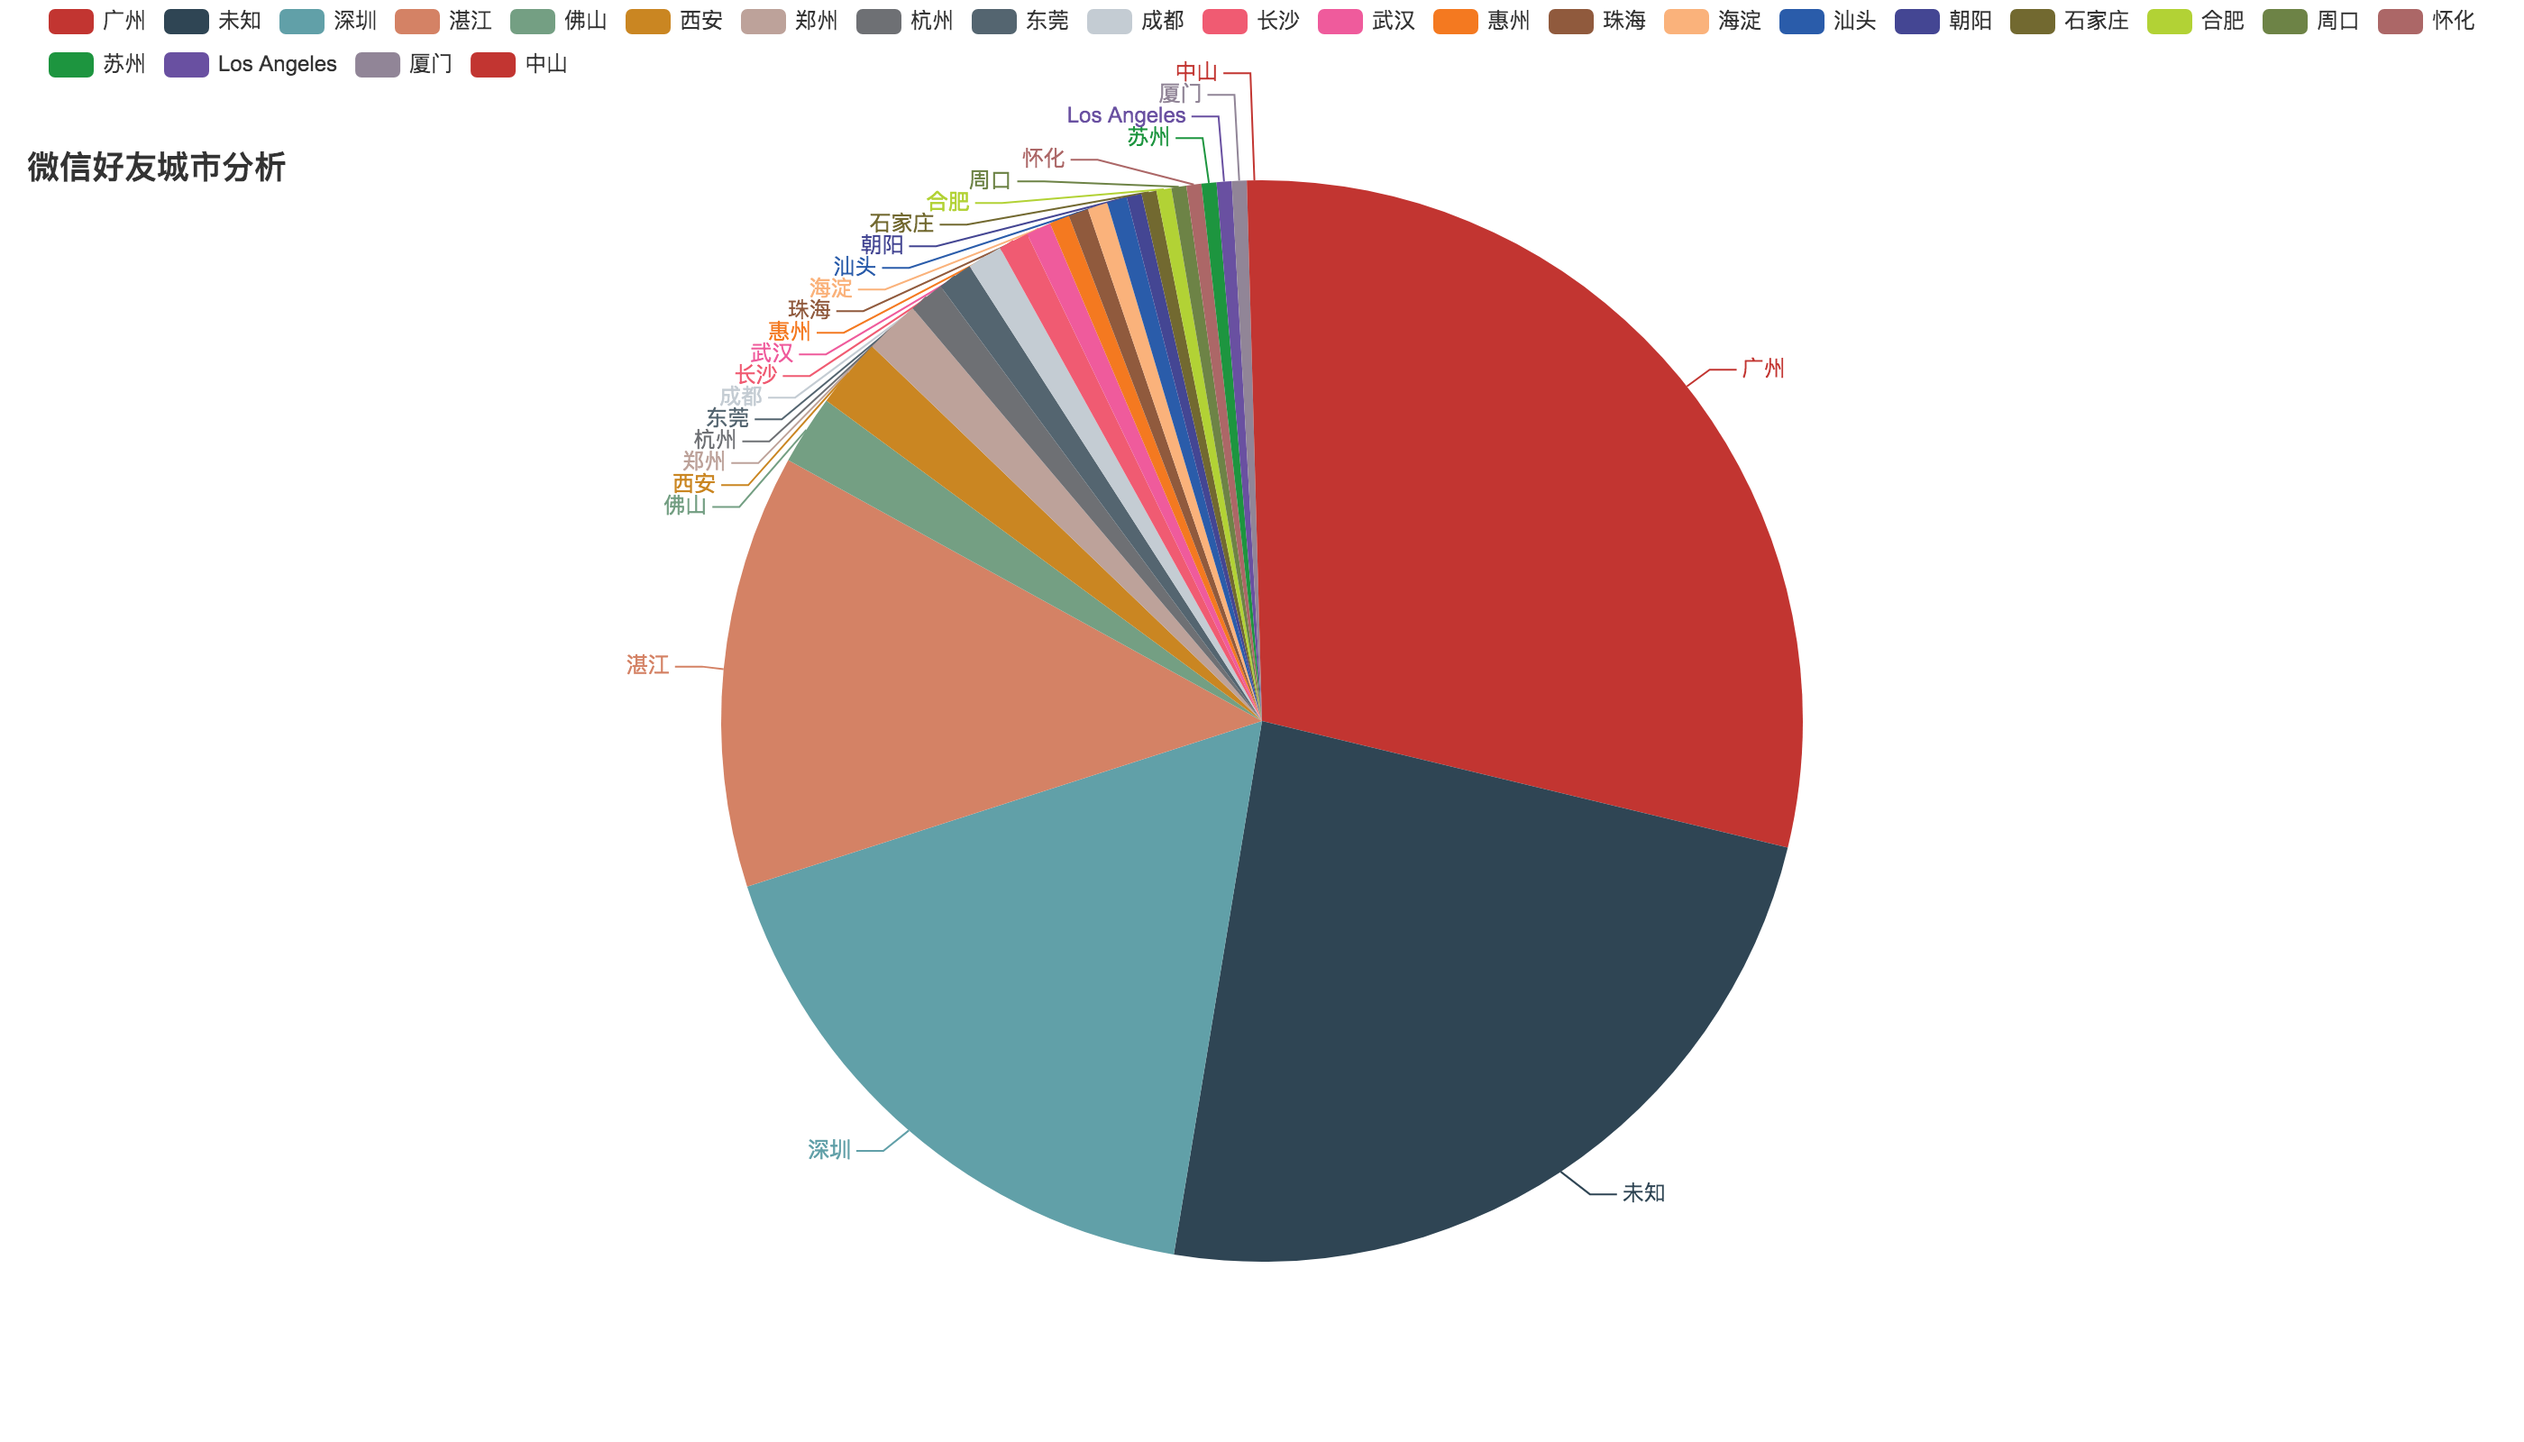
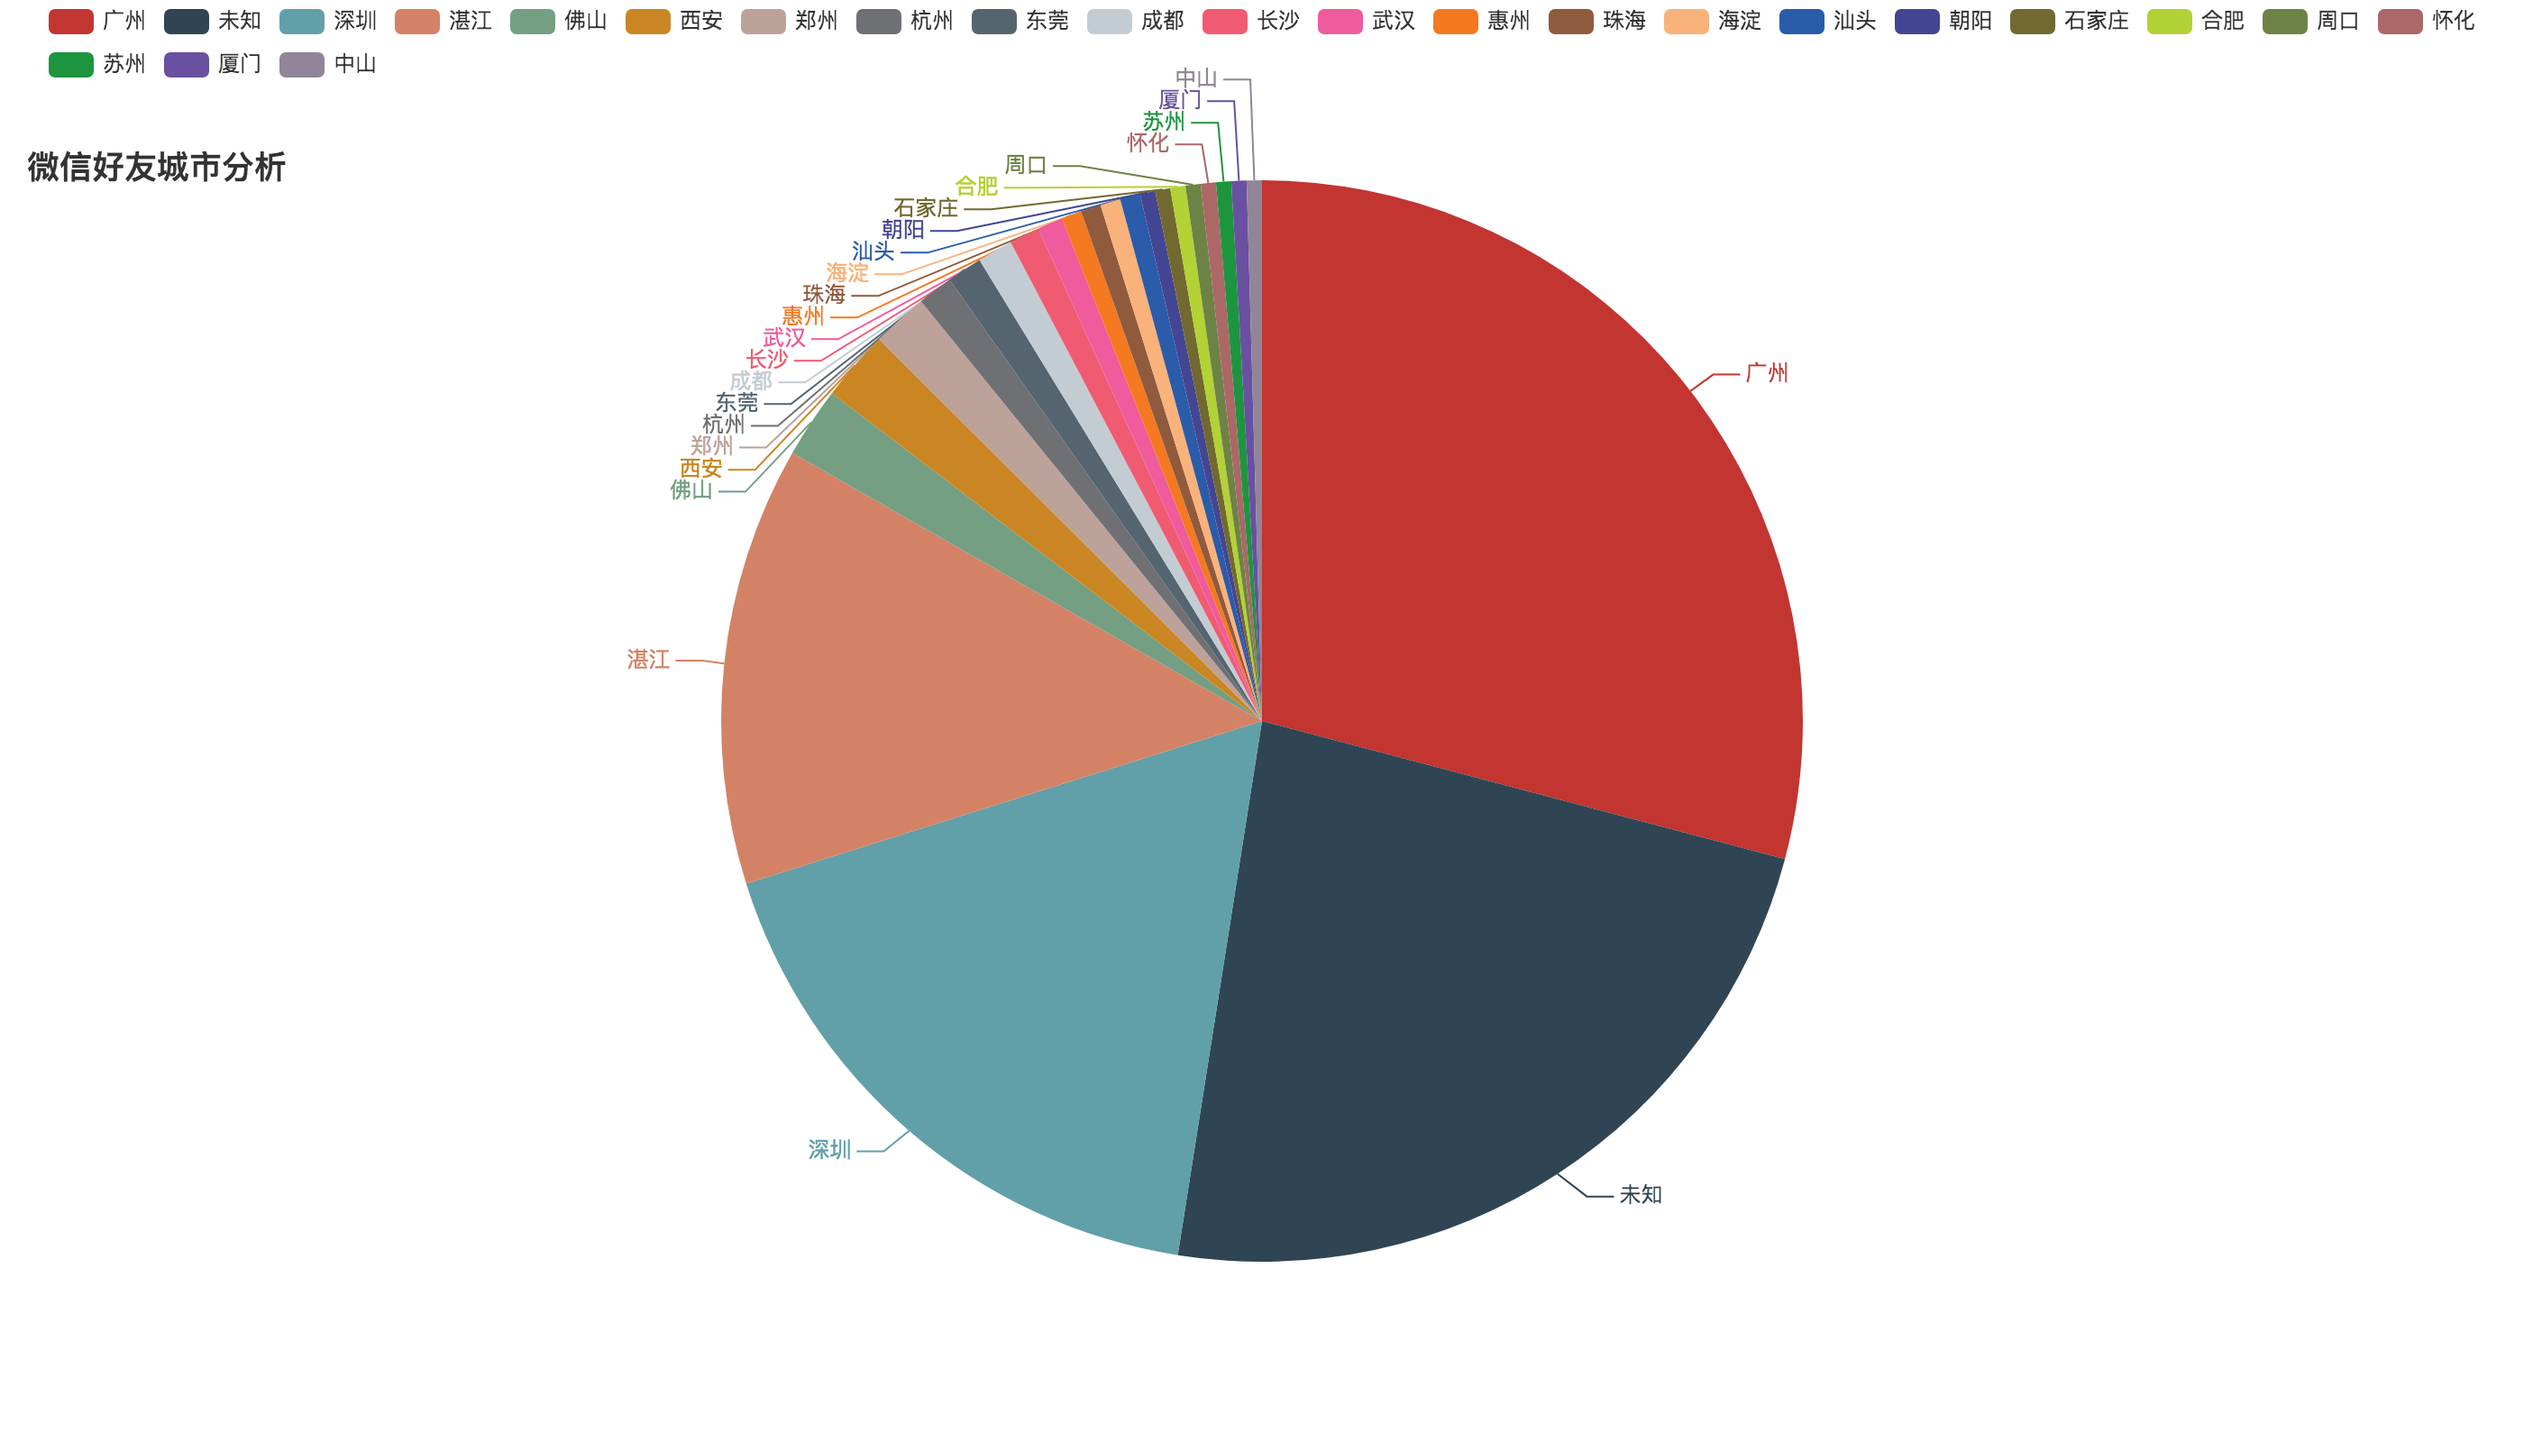
1. add Geo chart 2. add Geo snapshot

diff --git a/geo_province.html b/geo_province.html
@@ -2,16 +2,17 @@
 <html>
 <head>
     <meta charset="UTF-8">
-    <title>微信好友省份分析</title>
+    <title>微信好友分布</title>
             <script type="text/javascript" src="https://assets.pyecharts.org/assets/echarts.min.js"></script>
+        <script type="text/javascript" src="https://assets.pyecharts.org/assets/maps/china.js"></script>
 
 </head>
 <body>
-    <div id="712c3514e1d840889f5f8ce867cba566" class="chart-container" style="width:1200px; height:800px;"></div>
+    <div id="d4659c70cf964eb3a87d81f18f2b4d87" class="chart-container" style="width:900px; height:500px;"></div>
     <script>
-        var chart_712c3514e1d840889f5f8ce867cba566 = echarts.init(
-            document.getElementById('712c3514e1d840889f5f8ce867cba566'), 'white', {renderer: 'canvas'});
-        var option_712c3514e1d840889f5f8ce867cba566 = {
+        var chart_d4659c70cf964eb3a87d81f18f2b4d87 = echarts.init(
+            document.getElementById('d4659c70cf964eb3a87d81f18f2b4d87'), 'white', {renderer: 'canvas'});
+        var option_d4659c70cf964eb3a87d81f18f2b4d87 = {
     "animation": true,
     "animationThreshold": 2000,
     "animationDuration": 1000,
@@ -48,16 +49,20 @@
     ],
     "series": [
         {
-            "type": "pie",
-            "name": "\u5fae\u4fe1\u597d\u53cb\u5206\u5e03",
-            "clockwise": true,
+            "type": "map",
+            "name": "\u5fae\u4fe1\u597d\u53cb\u5206\u5e03geo\u56fe",
+            "label": {
+                "show": true,
+                "position": "top",
+                "margin": 8
+            },
+            "mapType": "china",
             "data": [
                 {
                     "name": "\u5e7f\u4e1c",
                     "value": 452
                 },
                 {
-                    "name": "\u672a\u77e5",
                     "value": 121
                 },
                 {
@@ -125,45 +130,20 @@
                     "value": 3
                 }
             ],
-            "radius": [
-                "25%",
-                "75%"
-            ],
-            "center": [
-                "50%",
-                "50%"
-            ],
-            "roseType": "Mapping",
-            "label": {
-                "show": true,
-                "position": "top",
-                "margin": 8
-            }
+            "roam": true,
+            "zoom": 1,
+            "showLegendSymbol": true,
+            "emphasis": {}
         }
     ],
     "legend": [
         {
             "data": [
-                "\u5e7f\u4e1c",
-                "\u672a\u77e5",
-                "\u6cb3\u5357",
-                "\u5317\u4eac",
-                "\u9655\u897f",
-                "\u6e56\u5357",
-                "\u6d59\u6c5f",
-                "\u6c5f\u82cf",
-                "\u4e0a\u6d77",
-                "\u6e56\u5317",
-                "\u5176\u4ed6",
-                "\u56db\u5ddd",
-                "\u6cb3\u5317",
-                "\u5e7f\u897f",
-                "\u798f\u5efa",
-                "\u4e91\u5357",
-                "\u5b89\u5fbd",
-                "Dubayy"
+                "\u5fae\u4fe1\u597d\u53cb\u5206\u5e03geo\u56fe"
             ],
-            "selected": {},
+            "selected": {
+                "\u5fae\u4fe1\u597d\u53cb\u5206\u5e03geo\u56fe": true
+            },
             "show": true,
             "padding": 5,
             "itemGap": 10,
@@ -185,46 +165,35 @@
     },
     "title": [
         {
-            "text": "\u5fae\u4fe1\u597d\u53cb\u7701\u4efd\u5206\u6790",
-            "left": "50px",
-            "top": "60px",
+            "text": "\u5fae\u4fe1\u597d\u53cb\u5206\u5e03\u5206\u5e03",
+            "left": "30px",
             "padding": 5,
             "itemGap": 10
         }
     ],
-    "toolbox": {
+    "visualMap": {
         "show": true,
-        "orient": "horizontal",
-        "itemSize": 15,
-        "itemGap": 10,
-        "left": "80%",
-        "top": "60px",
-        "feature": {
-            "saveAsImage": {
-                "show": true,
-                "title": "save as image",
-                "type": "png"
-            },
-            "restore": {
-                "show": true,
-                "title": "restore"
-            },
-            "dataView": {
-                "show": true,
-                "title": "data view",
-                "readOnly": false
-            },
-            "dataZoom": {
-                "show": true,
-                "title": {
-                    "zoom": "data zoom",
-                    "back": "data zoom restore"
-                }
-            }
-        }
+        "type": "piecewise",
+        "min": 0,
+        "max": 452,
+        "inRange": {
+            "color": [
+                "#50a3ba",
+                "#eac763",
+                "#d94e5d"
+            ]
+        },
+        "calculable": true,
+        "inverse": false,
+        "splitNumber": 5,
+        "orient": "vertical",
+        "showLabel": true,
+        "itemWidth": 20,
+        "itemHeight": 14,
+        "borderWidth": 0
     }
 };
-        chart_712c3514e1d840889f5f8ce867cba566.setOption(option_712c3514e1d840889f5f8ce867cba566);
+        chart_d4659c70cf964eb3a87d81f18f2b4d87.setOption(option_d4659c70cf964eb3a87d81f18f2b4d87);
     </script>
 </body>
 </html>

diff --git a/pie_city.html b/pie_city.html
@@ -7,11 +7,11 @@
 
 </head>
 <body>
-    <div id="76b2c2c3288349abb3f710d6abb5e5b4" class="chart-container" style="width:1400px; height:800px;"></div>
+    <div id="be73d05760c3407e86163e2ecc127ada" class="chart-container" style="width:1400px; height:800px;"></div>
     <script>
-        var chart_76b2c2c3288349abb3f710d6abb5e5b4 = echarts.init(
-            document.getElementById('76b2c2c3288349abb3f710d6abb5e5b4'), 'white', {renderer: 'canvas'});
-        var option_76b2c2c3288349abb3f710d6abb5e5b4 = {
+        var chart_be73d05760c3407e86163e2ecc127ada = echarts.init(
+            document.getElementById('be73d05760c3407e86163e2ecc127ada'), 'white', {renderer: 'canvas'});
+        var option_be73d05760c3407e86163e2ecc127ada = {
     "animation": true,
     "animationThreshold": 2000,
     "animationDuration": 1000,
@@ -58,7 +58,7 @@
                 },
                 {
                     "name": "\u672a\u77e5",
-                    "value": 160
+                    "value": 155
                 },
                 {
                     "name": "\u6df1\u5733",
@@ -141,10 +141,6 @@
                     "value": 3
                 },
                 {
-                    "name": "Los Angeles",
-                    "value": 3
-                },
-                {
                     "name": "\u53a6\u95e8",
                     "value": 3
                 },
@@ -193,7 +189,6 @@
                 "\u5468\u53e3",
                 "\u6000\u5316",
                 "\u82cf\u5dde",
-                "Los Angeles",
                 "\u53a6\u95e8",
                 "\u4e2d\u5c71"
             ],
@@ -258,7 +253,7 @@
         }
     }
 };
-        chart_76b2c2c3288349abb3f710d6abb5e5b4.setOption(option_76b2c2c3288349abb3f710d6abb5e5b4);
+        chart_be73d05760c3407e86163e2ecc127ada.setOption(option_be73d05760c3407e86163e2ecc127ada);
     </script>
 </body>
 </html>

diff --git a/city.html b/city.html
@@ -7,11 +7,11 @@
 
 </head>
 <body>
-    <div id="953aed662d31404d838f44bba1ab9573" class="chart-container" style="width:900px; height:500px;"></div>
+    <div id="6c6e27967f334fc4b2eb1081735d30fb" class="chart-container" style="width:900px; height:500px;"></div>
     <script>
-        var chart_953aed662d31404d838f44bba1ab9573 = echarts.init(
-            document.getElementById('953aed662d31404d838f44bba1ab9573'), 'white', {renderer: 'canvas'});
-        var option_953aed662d31404d838f44bba1ab9573 = {
+        var chart_6c6e27967f334fc4b2eb1081735d30fb = echarts.init(
+            document.getElementById('6c6e27967f334fc4b2eb1081735d30fb'), 'white', {renderer: 'canvas'});
+        var option_6c6e27967f334fc4b2eb1081735d30fb = {
     "animation": true,
     "animationThreshold": 2000,
     "animationDuration": 1000,
@@ -52,7 +52,7 @@
             "name": "\u5fae\u4fe1\u597d\u53cb\u5730\u533a\u6570\u636e\u7edf\u8ba1",
             "data": [
                 193,
-                160,
+                155,
                 117,
                 87,
                 14,
@@ -67,7 +67,6 @@
                 4,
                 4,
                 4,
-                3,
                 3,
                 3,
                 3,
@@ -155,7 +154,6 @@
                 "\u5468\u53e3",
                 "\u6000\u5316",
                 "\u82cf\u5dde",
-                "Los Angeles",
                 "\u53a6\u95e8",
                 "\u4e2d\u5c71"
             ]
@@ -220,7 +218,7 @@
         }
     }
 };
-        chart_953aed662d31404d838f44bba1ab9573.setOption(option_953aed662d31404d838f44bba1ab9573);
+        chart_6c6e27967f334fc4b2eb1081735d30fb.setOption(option_6c6e27967f334fc4b2eb1081735d30fb);
     </script>
 </body>
 </html>

diff --git a/sex.html b/sex.html
@@ -7,11 +7,11 @@
 
 </head>
 <body>
-    <div id="d73344edf21b4df9a890a265653bf8e6" class="chart-container" style="width:900px; height:500px;"></div>
+    <div id="ea03770d564f481682cad3ebdd991c72" class="chart-container" style="width:900px; height:500px;"></div>
     <script>
-        var chart_d73344edf21b4df9a890a265653bf8e6 = echarts.init(
-            document.getElementById('d73344edf21b4df9a890a265653bf8e6'), 'white', {renderer: 'canvas'});
-        var option_d73344edf21b4df9a890a265653bf8e6 = {
+        var chart_ea03770d564f481682cad3ebdd991c72 = echarts.init(
+            document.getElementById('ea03770d564f481682cad3ebdd991c72'), 'white', {renderer: 'canvas'});
+        var option_ea03770d564f481682cad3ebdd991c72 = {
     "animation": true,
     "animationThreshold": 2000,
     "animationDuration": 1000,
@@ -165,7 +165,7 @@
         }
     ]
 };
-        chart_d73344edf21b4df9a890a265653bf8e6.setOption(option_d73344edf21b4df9a890a265653bf8e6);
+        chart_ea03770d564f481682cad3ebdd991c72.setOption(option_ea03770d564f481682cad3ebdd991c72);
     </script>
 </body>
 </html>

diff --git a/itchat-demo.py b/itchat-demo.py
@@ -2,8 +2,8 @@ import itchat
 from itchat.content import *
 import requests
 from lxml import etree
-from pyecharts.charts import Bar, Pie
-from pyecharts.options import InitOpts, TitleOpts, ToolboxOpts
+from pyecharts.charts import Bar, Pie, Geo, Map
+from pyecharts.options import InitOpts, TitleOpts, ToolboxOpts, VisualMapOpts
 from pyecharts.render import make_snapshot
 
 # 使用 snapshot-selenium 渲染图片
@@ -107,6 +107,8 @@ def wechat_friends_analysis():
         else:
             no_remark_sex_count[sex] += 1
 
+    print([item[0] for item in tuple_city_list])
+
     for i, j in tuple_province_list:
         if not len(i):
             i = "未知"
@@ -119,8 +121,8 @@ def wechat_friends_analysis():
         cities.append(i)
         city_count.append(j)
 
-    print(cities, city_count)
-    print(provinces, province_count)
+    # print(cities, city_count)
+    # print(provinces, province_count)
 
     page_title = "好友性别数据统计"
     bar_sex = Bar(init_opts=InitOpts(page_title=page_title))
@@ -173,6 +175,16 @@ def wechat_friends_analysis():
         # .render("pie_province.html")
     )
     make_snapshot(snapshot, pie_province.render("pie_province.html"), "pie_province.png")
+
+    province_geo = (
+                    Map(init_opts=InitOpts(page_title="微信好友分布"))
+                    .add("微信好友分布geo图", tuple_province_list, "china")
+                    .set_global_opts(
+                        title_opts=TitleOpts(title="微信好友分布分布", pos_left="30px"),
+                        visualmap_opts=VisualMapOpts(max_=tuple_province_list[0][1], is_piecewise=True))
+                    # .render("geo_province.html")
+                    )
+    make_snapshot(snapshot, province_geo.render("geo_province.html"), "geo_province.png")
 
 
 @itchat.msg_register([PICTURE, RECORDING, ATTACHMENT, VIDEO])
